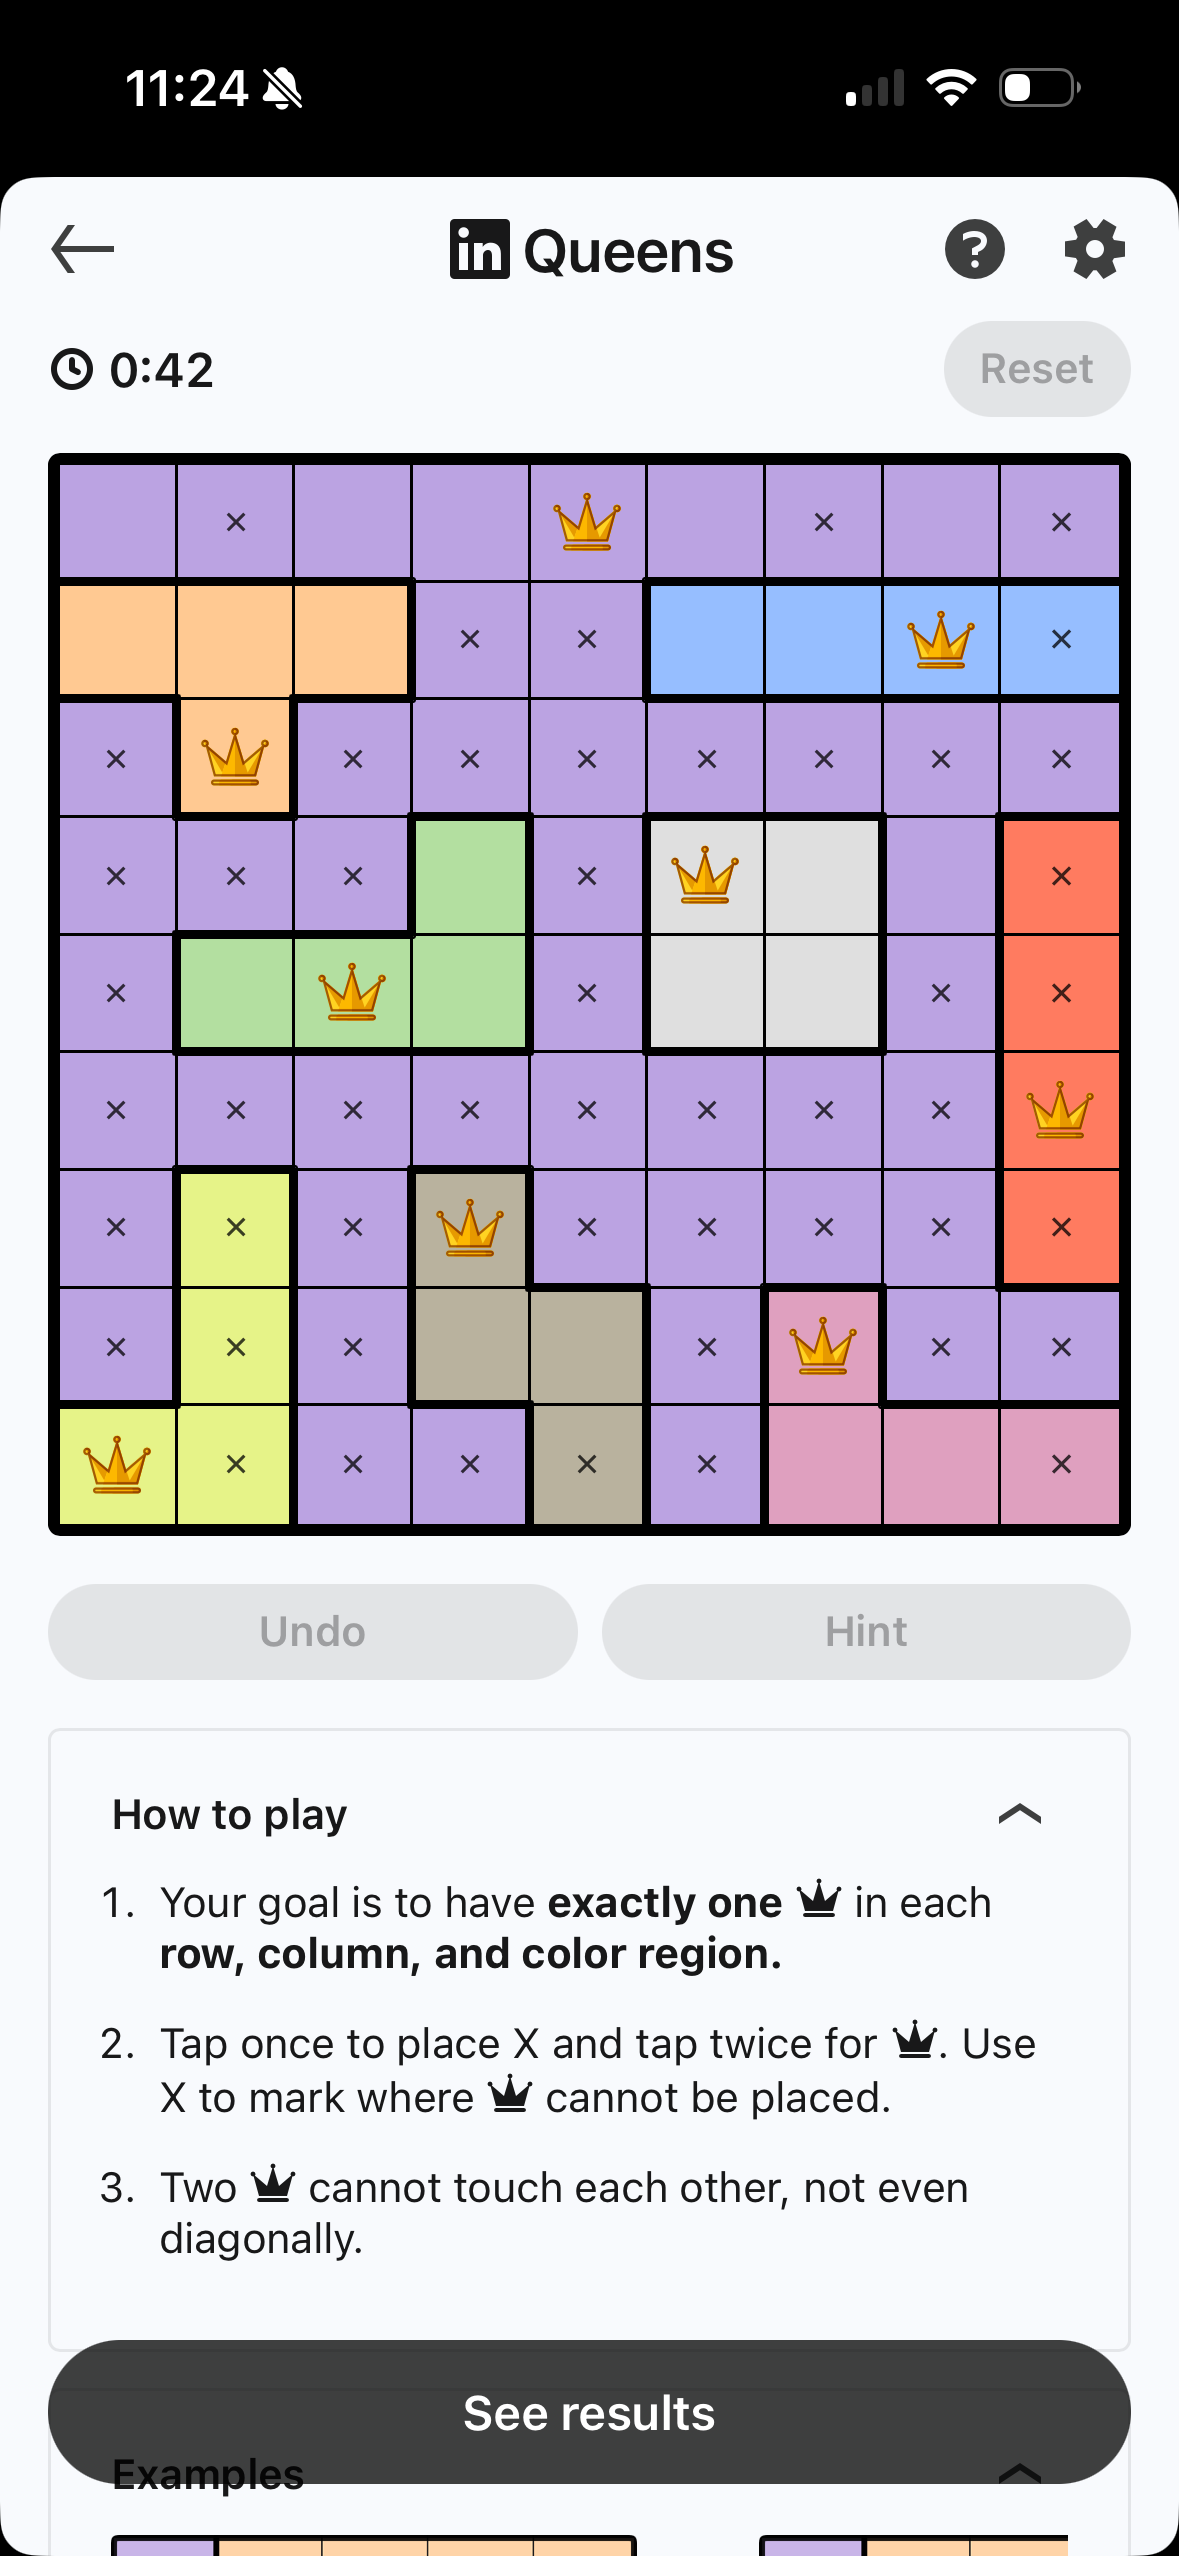
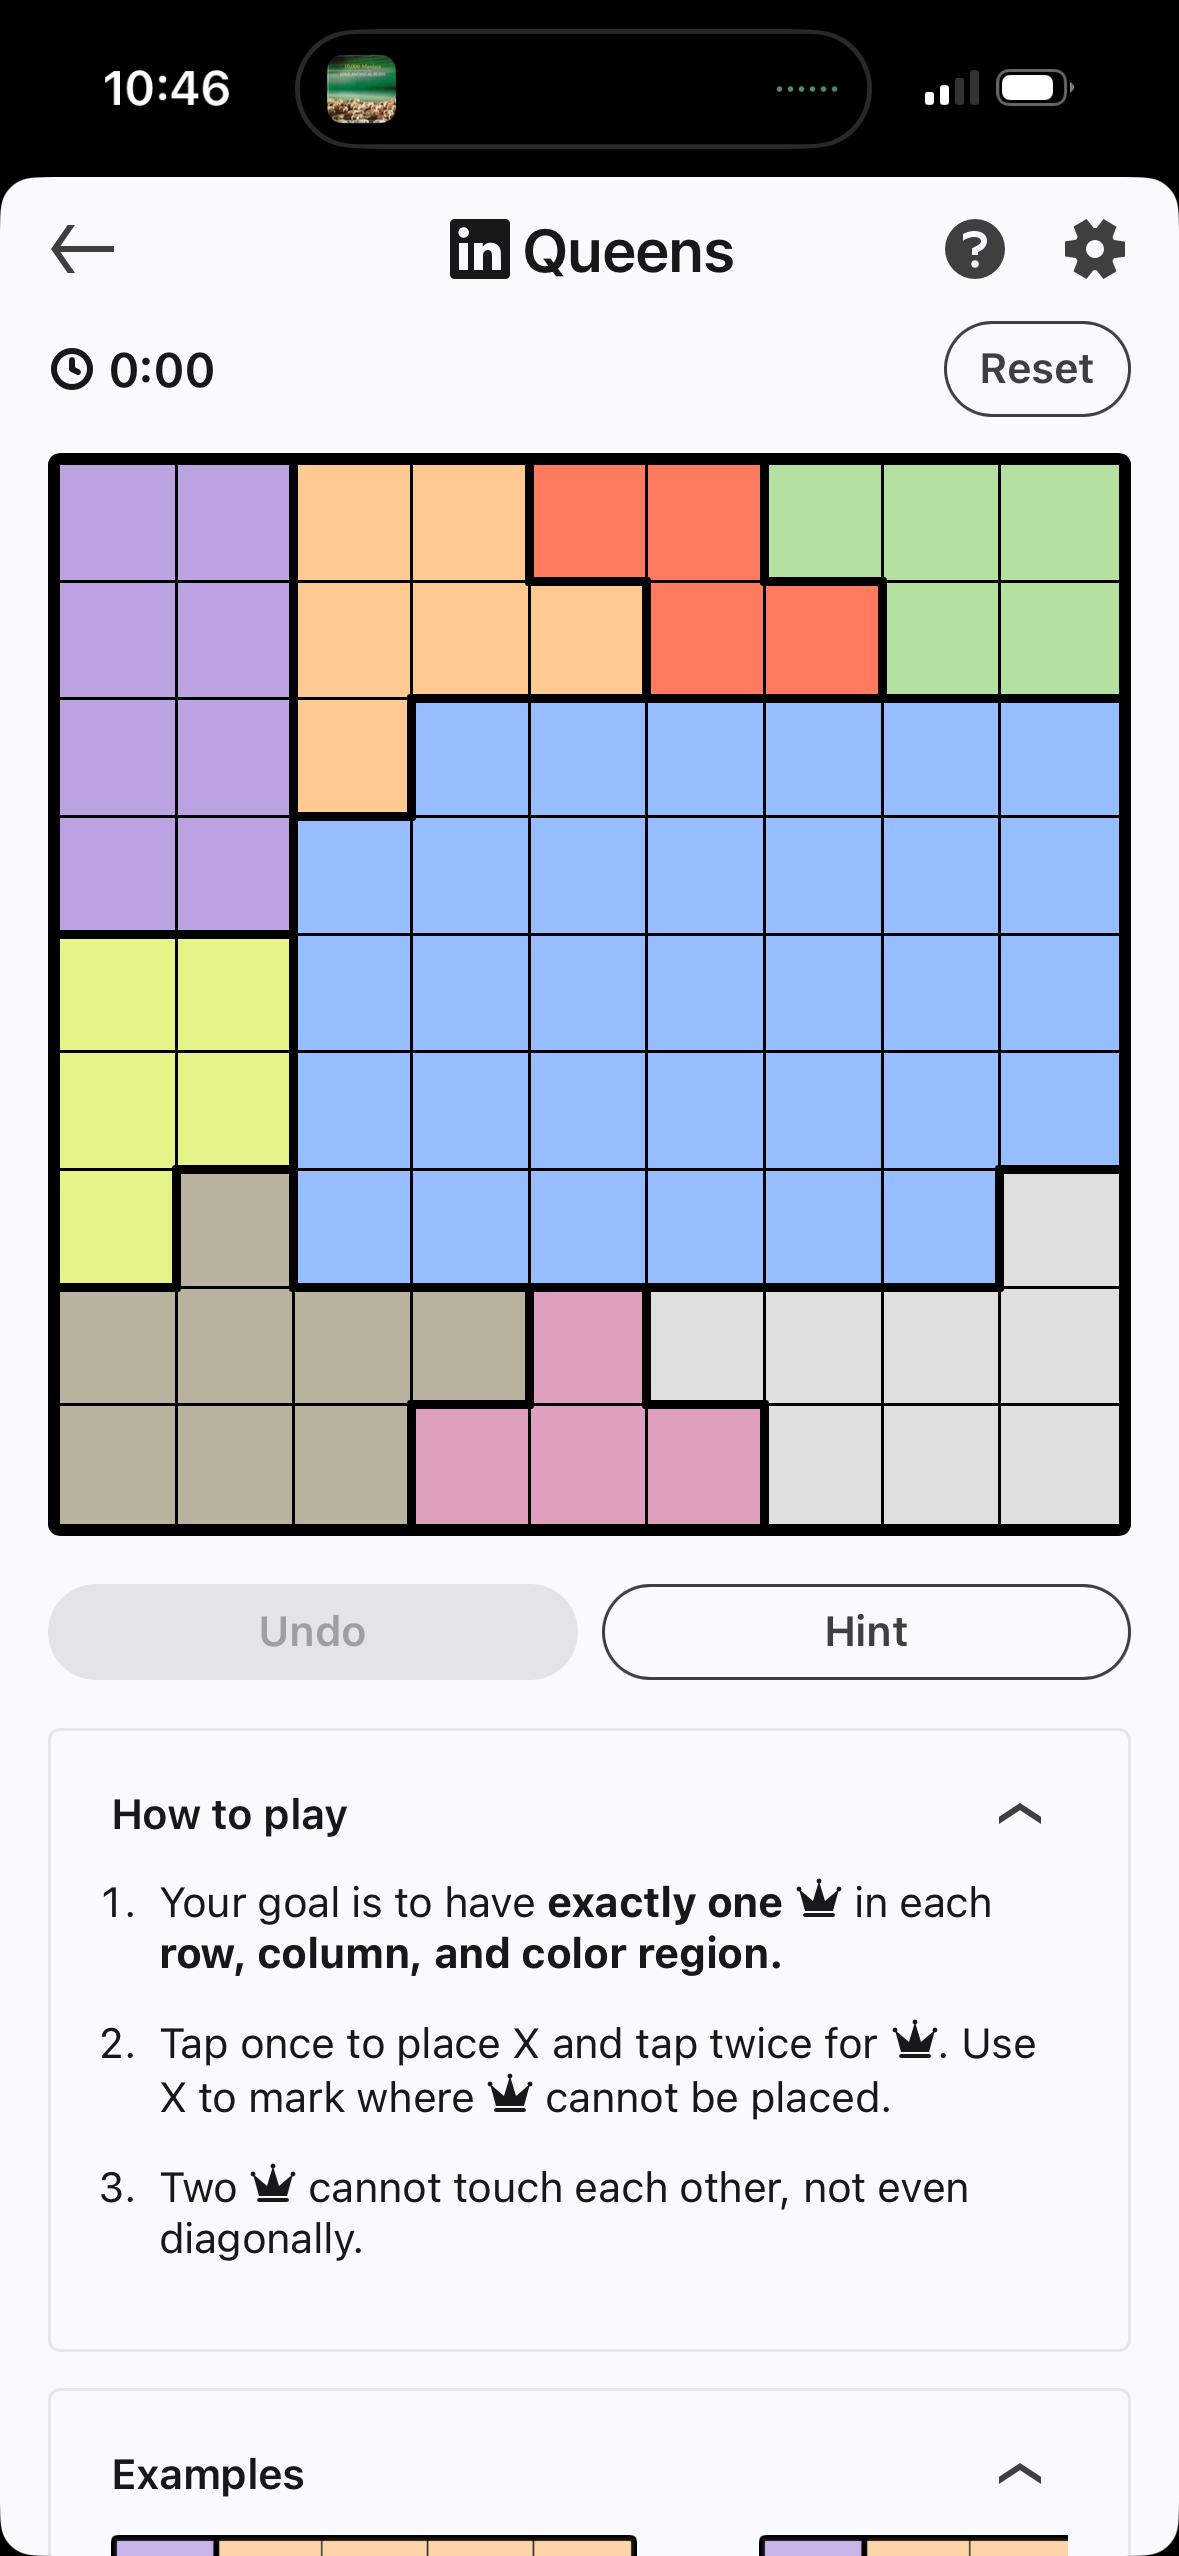
fixture update and correct mask and contour with boundingrect

diff --git a/queens-solver/scripts/debug_scan.py b/queens-solver/scripts/debug_scan.py
@@ -57,6 +57,13 @@ class Dumper:
             canvas[y:, x] = (60, 60, 60)
         self(name, canvas)
  
+def order_corners(corners: np.ndarray) -> np.ndarray:
+    """order 4 corner points: TL, TR, BR, BL
+    assumes a roughly axis-aligned quad
+    """
+    s = corners.sum(axis=1)
+    d = corners[:, 0] - corners[:, 1]
+    return corners[[s.argmin(), d.argmax(), s.argmax(), d.argmin()]]
 
 def analyze(image: np.ndarray, dump: Dumper) -> None:
     
@@ -84,7 +91,7 @@ def analyze(image: np.ndarray, dump: Dumper) -> None:
         closed_gaps, cv2.RETR_EXTERNAL, cv2.CHAIN_APPROX_SIMPLE
     )
     if not contours:
-        print("    !! no contours found")
+        print(" !!!!no contours found !!!!")
         return
     board = max(contours, key=cv2.contourArea)
 
@@ -92,30 +99,30 @@ def analyze(image: np.ndarray, dump: Dumper) -> None:
     cv2.drawContours(contour_view, [board], -1, (0, 0, 255), 2)
     dump("contour", contour_view)
 
-    #convex hull bridges any notch so approxPolyDP only ever sees a convex board outline
-    hull = cv2.convexHull(board)
+    x, y, w, h = cv2.boundingRect(board)
+    corners = np.array([[x, y], [x + w, y], [x + w, y + h], [x, y + h]], dtype=np.float32)  
+    # TL, TR, BR, BL by construction
 
-    epsilon = 0.02 * cv2.arcLength(hull, closed=True)
-    approx = cv2.approxPolyDP(hull, epsilon, closed=True)
-    print(f"    approxPolyDP -> {len(approx)} points (epsilon={epsilon:.1f}px)")
+    # if the blob is roughly the full rectangle, hull area
+    #approximately equals box area. big difference means refuse
+    hull = cv2.convexHull(board)
+    fill = cv2.contourArea(hull) / (w * h)
+    print(f"    bbox=({x},{y},{w},{h})  hull/box fill={fill:.3f}")
+    if fill < 0.80:
+        print("    !!!blob fills too little of its bounding box!!!!!!   ")
+        return
 
     corner_view = image.copy()
-    cv2.drawContours(corner_view, [approx], -1, (0, 255, 0), 2)
-    for point in approx.reshape(-1, 2):
+    for point in corners.astype(int):
         cv2.circle(corner_view, tuple(point), 12, (0, 0, 255), 3)
     dump("corners", corner_view)
 
-    if len(approx) != 4:
-        print("    !! expected 4 corners")
-        return
-    corners = approx.reshape(4, 2).astype(np.float32)
-    s, d = corners.sum(axis=1), corners[:, 0] - corners[:, 1]
-    ordered_corners = corners[[s.argmin(), d.argmax(), s.argmax(), d.argmin()]] #TL, TR, BR, BL
+    ordered = order_corners(corners)
     destination = np.array(
         [[0, 0], [WARP_SIZE, 0], [WARP_SIZE, WARP_SIZE], [0, WARP_SIZE]],
         dtype=np.float32,
     )
-    warp_matrix = cv2.getPerspectiveTransform(ordered_corners, destination)
+    warp_matrix = cv2.getPerspectiveTransform(ordered, destination)
     warped = cv2.warpPerspective(image, warp_matrix, (WARP_SIZE, WARP_SIZE))
     dump("warped", warped)
 
